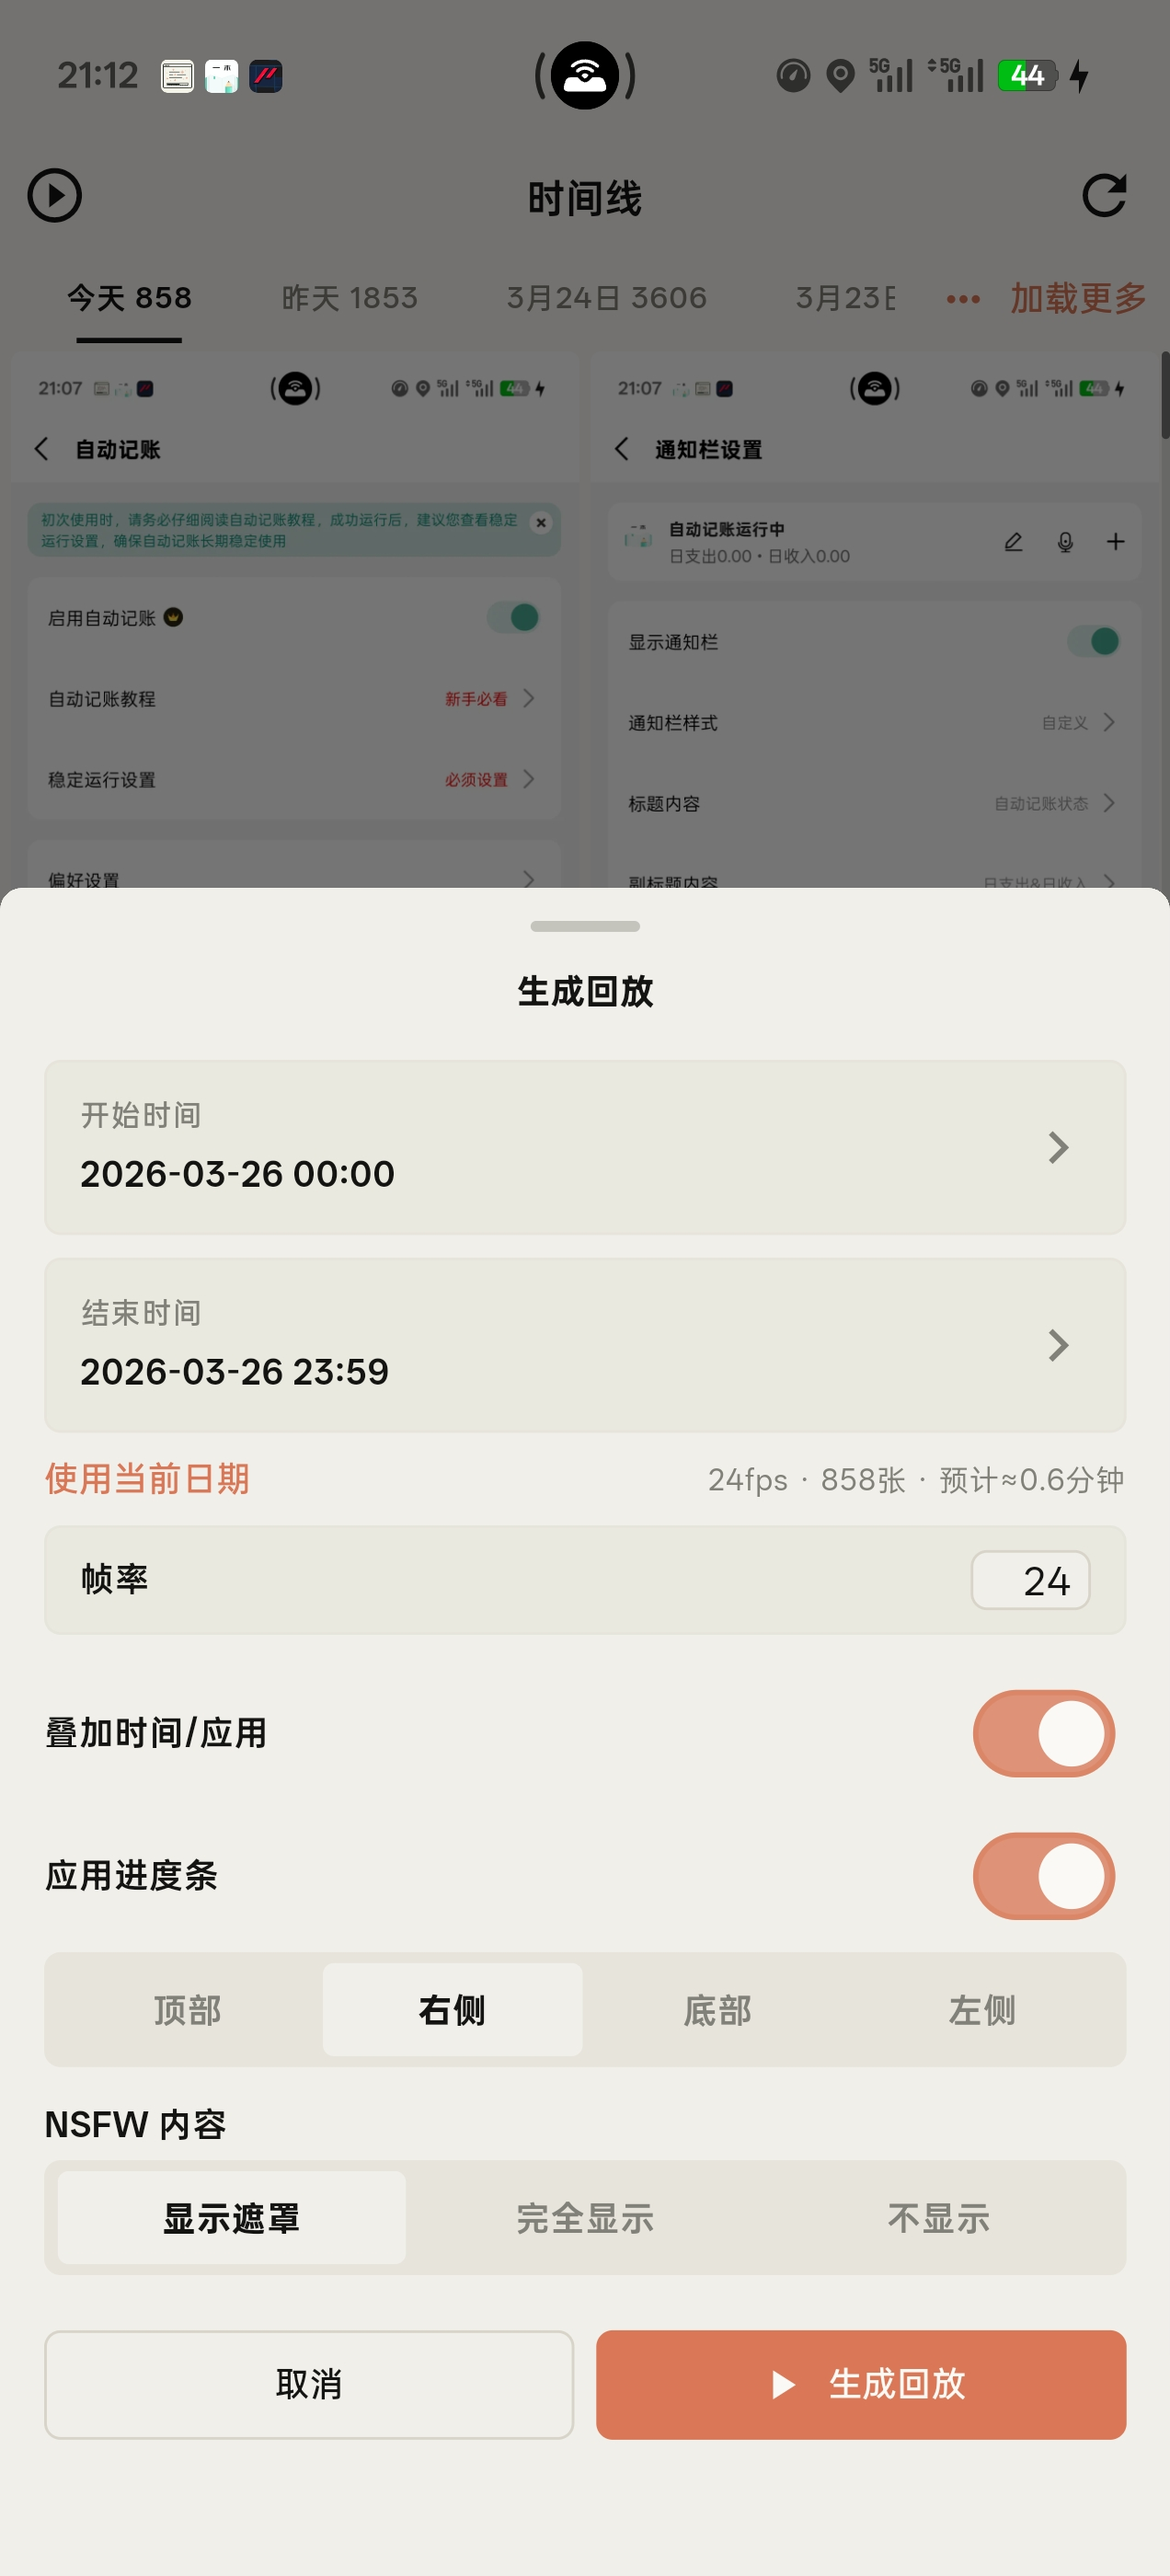
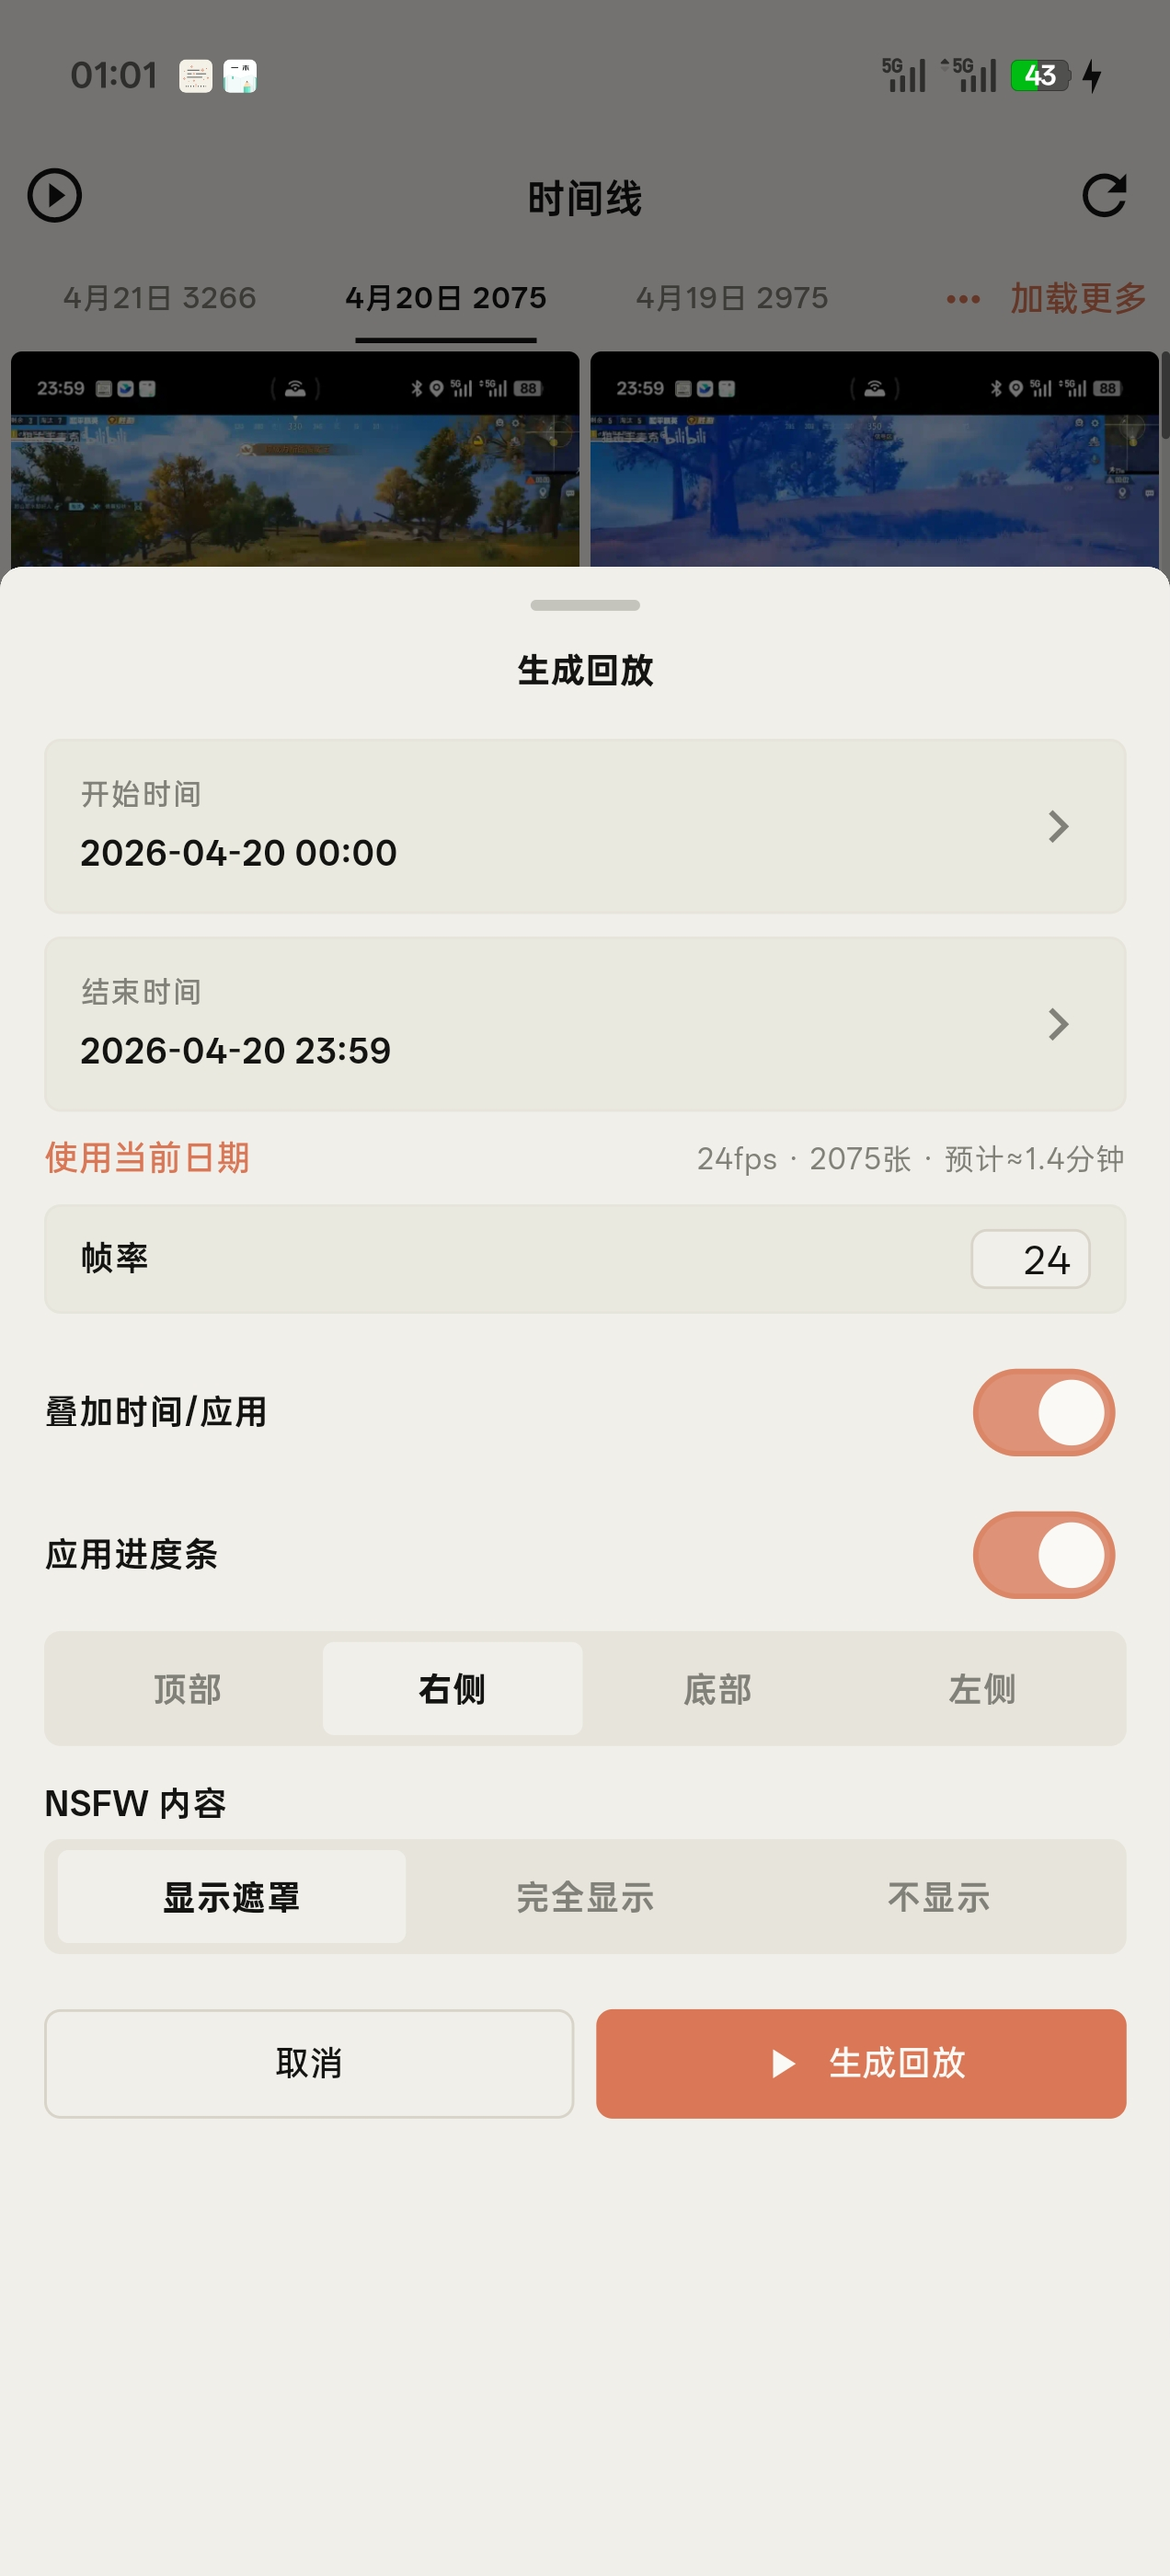
feat(storage): 支持清理回放视频内部副本
- 回放视频保存到系统相册成功后删除应用内部临时副本

- 存储分析识别 output/replay 并提供确认清理入口

- 补充回放视频清理多语言文案、README 说明和展示截图

diff --git a/lib/features/storage_analysis/presentation/pages/storage_analysis_page.dart b/lib/features/storage_analysis/presentation/pages/storage_analysis_page.dart
@@ -14,6 +14,7 @@ import 'package:screen_memo/features/storage_analysis/data/storage_analysis_serv
 import 'package:screen_memo/core/theme/app_theme.dart';
 import 'package:screen_memo/core/utils/byte_formatter.dart';
 import 'package:screen_memo/core/widgets/ui_components.dart';
+import 'package:screen_memo/core/widgets/ui_dialog.dart';
 
 class StorageAnalysisPage extends StatefulWidget {
   const StorageAnalysisPage({super.key});
@@ -29,6 +30,7 @@ class _StorageAnalysisPageState extends State<StorageAnalysisPage> {
   bool _detailsExpanded = false;
   bool _clearingCache = false;
   bool _clearingExternalLogs = false;
+  bool _clearingReplayOutput = false;
 
   @override
   void initState() {
@@ -463,6 +465,7 @@ class _StorageAnalysisPageState extends State<StorageAnalysisPage> {
     final cacheNode = findNode((n) => n.id == 'cache');
     final screenshotsNode = findNode((n) => n.id == 'screenshots');
     final outputDatabasesNode = findNode((n) => n.type == 'outputDatabases');
+    final replayOutputNode = findNode((n) => n.type == 'replayOutput');
     final databasesNode = findNode((n) => n.type == 'databases');
     final externalLogsNode = findNode((n) => n.type == 'externalLogs');
 
@@ -506,6 +509,21 @@ class _StorageAnalysisPageState extends State<StorageAnalysisPage> {
           onAction: outputDatabasesNode.path == null
               ? null
               : () => _copyPath(context, l10n, outputDatabasesNode.path!),
+        ),
+      if (replayOutputNode != null || _clearingReplayOutput)
+        _StorageCategoryCard(
+          title: l10n.storageAnalysisLabelReplayOutput,
+          bytes: replayOutputNode?.bytes ?? 0,
+          detailText: _buildNodeDetailText(l10n, replayOutputNode),
+          descriptionText: desc(
+            zh: '清理已生成的回放视频内部副本，不会删除系统相册中的视频，也不会影响原始截图。',
+            en: 'Clear internal replay video copies. Gallery videos and original screenshots are not deleted.',
+          ),
+          actionLabel: l10n.actionClear,
+          actionLoading: _clearingReplayOutput,
+          onAction: _clearingReplayOutput
+              ? null
+              : () => _confirmClearReplayOutput(l10n, replayOutputNode),
         ),
       if (databasesNode != null)
         _StorageCategoryCard(
@@ -603,6 +621,8 @@ class _StorageAnalysisPageState extends State<StorageAnalysisPage> {
                     node: node,
                     totalBytes: totalBytes,
                     depth: 0,
+                    onClearReplayOutput: _confirmClearReplayOutput,
+                    replayOutputClearing: _clearingReplayOutput,
                   ),
                 ),
               ],
@@ -684,6 +704,61 @@ class _StorageAnalysisPageState extends State<StorageAnalysisPage> {
       if (mounted) {
         setState(() {
           _clearingExternalLogs = false;
+        });
+      }
+    }
+  }
+
+  Future<void> _confirmClearReplayOutput(
+    AppLocalizations l10n,
+    StorageAnalysisNode? node,
+  ) async {
+    if (_clearingReplayOutput) return;
+    final String message = l10n.storageAnalysisReplayClearConfirmMessage(
+      formatBytes(node?.bytes ?? 0),
+      NumberFormat.decimalPattern().format(node?.fileCount ?? 0),
+    );
+    final bool? confirmed = await showUIDialog<bool>(
+      context: context,
+      title: l10n.storageAnalysisReplayClearConfirmTitle,
+      message: message,
+      actions: [
+        UIDialogAction<bool>(text: l10n.dialogCancel, result: false),
+        UIDialogAction<bool>(
+          text: l10n.actionClear,
+          result: true,
+          style: UIDialogActionStyle.destructive,
+        ),
+      ],
+    );
+    if (confirmed != true || !mounted) return;
+    await _clearReplayOutput(l10n);
+  }
+
+  Future<void> _clearReplayOutput(AppLocalizations l10n) async {
+    if (_clearingReplayOutput) return;
+    setState(() {
+      _clearingReplayOutput = true;
+    });
+
+    try {
+      final Directory? replayDir = await PathService.getInternalAppDir(
+        'output/replay',
+      );
+      if (replayDir != null) {
+        await _deleteDirContents(replayDir);
+      }
+
+      if (!mounted) return;
+      UINotifier.success(context, l10n.clearSuccess);
+      await _loadData();
+    } catch (e) {
+      if (!mounted) return;
+      UINotifier.error(context, l10n.clearFailedWithError(e.toString()));
+    } finally {
+      if (mounted) {
+        setState(() {
+          _clearingReplayOutput = false;
         });
       }
     }
@@ -792,6 +867,8 @@ class _StorageAnalysisPageState extends State<StorageAnalysisPage> {
                             node: child,
                             totalBytes: max(node.bytes, 1),
                             depth: 0,
+                            onClearReplayOutput: _confirmClearReplayOutput,
+                            replayOutputClearing: _clearingReplayOutput,
                           ),
                         ),
                     ],
@@ -812,11 +889,16 @@ class StorageNodeTile extends StatefulWidget {
     required this.node,
     required this.totalBytes,
     required this.depth,
+    this.onClearReplayOutput,
+    this.replayOutputClearing = false,
   });
 
   final StorageAnalysisNode node;
   final int totalBytes;
   final int depth;
+  final void Function(AppLocalizations l10n, StorageAnalysisNode node)?
+  onClearReplayOutput;
+  final bool replayOutputClearing;
 
   @override
   State<StorageNodeTile> createState() => _StorageNodeTileState();
@@ -846,6 +928,10 @@ class _StorageNodeTileState extends State<StorageNodeTile> {
     final textTheme = theme.textTheme;
     final l10n = AppLocalizations.of(context);
     final hasChildren = widget.node.hasChildren;
+    final canClearReplayOutput =
+        widget.node.type == 'replayOutput' &&
+        widget.node.bytes > 0 &&
+        widget.onClearReplayOutput != null;
     final indent = 16.0 * widget.depth;
 
     final ratio = widget.totalBytes > 0
@@ -946,7 +1032,24 @@ class _StorageNodeTileState extends State<StorageNodeTile> {
                     ),
                   ],
                 ),
-                if (!hasChildren && widget.node.path != null)
+                if (canClearReplayOutput)
+                  IconButton(
+                    icon: widget.replayOutputClearing
+                        ? const SizedBox(
+                            width: 18,
+                            height: 18,
+                            child: CircularProgressIndicator(strokeWidth: 2),
+                          )
+                        : const Icon(
+                            Icons.cleaning_services_outlined,
+                            size: 18,
+                          ),
+                    tooltip: l10n.actionClear,
+                    onPressed: widget.replayOutputClearing
+                        ? null
+                        : () => widget.onClearReplayOutput!(l10n, widget.node),
+                  )
+                else if (!hasChildren && widget.node.path != null)
                   IconButton(
                     icon: const Icon(Icons.copy_rounded, size: 18),
                     tooltip: l10n.actionCopyPath,
@@ -966,6 +1069,8 @@ class _StorageNodeTileState extends State<StorageNodeTile> {
                       node: child,
                       totalBytes: widget.totalBytes,
                       depth: widget.depth + 1,
+                      onClearReplayOutput: widget.onClearReplayOutput,
+                      replayOutputClearing: widget.replayOutputClearing,
                     ),
                   )
                   .toList(),
@@ -1172,6 +1277,8 @@ String _resolveStorageNodeLabel(
       return appName ?? packageName ?? node.label;
     case 'outputDatabases':
       return l10n.storageAnalysisLabelOutputDatabases;
+    case 'replayOutput':
+      return l10n.storageAnalysisLabelReplayOutput;
     case 'filesChild':
       return node.label;
     case 'sharedPrefs':

diff --git a/lib/features/timeline/application/replay_export_service.dart b/lib/features/timeline/application/replay_export_service.dart
@@ -343,8 +343,14 @@ class ReplayExportService {
       } catch (_) {}
 
       if (options.saveToGallery) {
-        await _saveVideoToGallery(outPath, l10n: l10n);
-        if (options.openGalleryAfterSave) {
+        final bool savedToGallery = await _saveVideoToGallery(
+          outPath,
+          l10n: l10n,
+        );
+        if (savedToGallery) {
+          await _deleteReplayOutputCopy(outPath);
+        }
+        if (savedToGallery && options.openGalleryAfterSave) {
           try {
             await Gal.open();
           } catch (_) {}
@@ -371,7 +377,7 @@ class ReplayExportService {
           duration: const Duration(seconds: 6),
           actionLabel: saveLabel,
           onAction: () {
-            unawaited(_saveVideoToGallery(outPath, l10n: l10n));
+            unawaited(_saveVideoToGalleryAndDeleteCopy(outPath, l10n: l10n));
           },
         );
       }
@@ -496,7 +502,7 @@ class ReplayExportService {
     return filePath;
   }
 
-  Future<void> _saveVideoToGallery(
+  Future<bool> _saveVideoToGallery(
     String path, {
     required AppLocalizations? l10n,
   }) async {
@@ -518,7 +524,7 @@ class ReplayExportService {
                   'Request gallery permission failed',
             );
           }
-          return;
+          return false;
         }
       }
       await Gal.putVideo(path);
@@ -528,6 +534,7 @@ class ReplayExportService {
           l10n?.saveImageSuccess ?? 'Saved to gallery',
         );
       }
+      return true;
     } on GalException catch (_) {
       if (overlay != null && overlay.mounted) {
         UINotifier.errorOnOverlay(
@@ -535,6 +542,7 @@ class ReplayExportService {
           l10n?.saveImageFailed ?? 'Save failed',
         );
       }
+      return false;
     } catch (_) {
       if (overlay != null && overlay.mounted) {
         UINotifier.errorOnOverlay(
@@ -542,6 +550,30 @@ class ReplayExportService {
           l10n?.saveImageFailed ?? 'Save failed',
         );
       }
+      return false;
+    }
+  }
+
+  Future<void> _saveVideoToGalleryAndDeleteCopy(
+    String path, {
+    required AppLocalizations? l10n,
+  }) async {
+    final bool savedToGallery = await _saveVideoToGallery(path, l10n: l10n);
+    if (savedToGallery) {
+      await _deleteReplayOutputCopy(path);
+    }
+  }
+
+  Future<void> _deleteReplayOutputCopy(String path) async {
+    try {
+      final File file = File(path);
+      if (await file.exists()) {
+        await file.delete();
+      }
+    } catch (e) {
+      try {
+        await FlutterLogger.nativeError('Replay', '删除回放内部副本失败: $e');
+      } catch (_) {}
     }
   }
 }

diff --git a/lib/l10n/app_localizations.dart b/lib/l10n/app_localizations.dart
@@ -1440,6 +1440,24 @@ abstract class AppLocalizations {
   /// **'output/databases'**
   String get storageAnalysisLabelOutputDatabases;
 
+  /// No description provided for @storageAnalysisLabelReplayOutput.
+  ///
+  /// In en, this message translates to:
+  /// **'Replay videos'**
+  String get storageAnalysisLabelReplayOutput;
+
+  /// No description provided for @storageAnalysisReplayClearConfirmTitle.
+  ///
+  /// In en, this message translates to:
+  /// **'Clear replay videos'**
+  String get storageAnalysisReplayClearConfirmTitle;
+
+  /// No description provided for @storageAnalysisReplayClearConfirmMessage.
+  ///
+  /// In en, this message translates to:
+  /// **'This will clear internal replay video copies ({size}, {count} files). Videos already saved to the system gallery and original screenshots will not be deleted. Continue?'**
+  String storageAnalysisReplayClearConfirmMessage(Object size, Object count);
+
   /// No description provided for @storageAnalysisLabelSharedPrefs.
   ///
   /// In en, this message translates to:

diff --git a/lib/l10n/app_localizations_ja.dart b/lib/l10n/app_localizations_ja.dart
@@ -731,6 +731,17 @@ class AppLocalizationsJa extends AppLocalizations {
   String get storageAnalysisLabelOutputDatabases => 'output/databases';
 
   @override
+  String get storageAnalysisLabelReplayOutput => 'リプレイ動画';
+
+  @override
+  String get storageAnalysisReplayClearConfirmTitle => 'リプレイ動画を削除';
+
+  @override
+  String storageAnalysisReplayClearConfirmMessage(Object size, Object count) {
+    return 'アプリ内部のリプレイ動画コピー（$size、$count 件のファイル）を削除します。システムギャラリーに保存済みの動画と元のスクリーンショットは削除されません。続行しますか？';
+  }
+
+  @override
   String get storageAnalysisLabelSharedPrefs => 'shared_prefs';
 
   @override

diff --git a/lib/l10n/app_localizations_ko.dart b/lib/l10n/app_localizations_ko.dart
@@ -731,6 +731,17 @@ class AppLocalizationsKo extends AppLocalizations {
   String get storageAnalysisLabelOutputDatabases => 'output/databases';
 
   @override
+  String get storageAnalysisLabelReplayOutput => '리플레이 동영상';
+
+  @override
+  String get storageAnalysisReplayClearConfirmTitle => '리플레이 동영상 정리';
+
+  @override
+  String storageAnalysisReplayClearConfirmMessage(Object size, Object count) {
+    return '앱 내부의 리플레이 동영상 복사본($size, 파일 $count개)을 정리합니다. 시스템 갤러리에 저장된 동영상과 원본 스크린샷은 삭제되지 않습니다. 계속할까요?';
+  }
+
+  @override
   String get storageAnalysisLabelSharedPrefs => 'shared_prefs';
 
   @override

diff --git a/lib/l10n/app_localizations_zh.dart b/lib/l10n/app_localizations_zh.dart
@@ -717,6 +717,17 @@ class AppLocalizationsZh extends AppLocalizations {
   String get storageAnalysisLabelOutputDatabases => 'output/databases';
 
   @override
+  String get storageAnalysisLabelReplayOutput => '回放视频';
+
+  @override
+  String get storageAnalysisReplayClearConfirmTitle => '清理回放视频';
+
+  @override
+  String storageAnalysisReplayClearConfirmMessage(Object size, Object count) {
+    return '将清理应用内部的回放视频副本（$size，$count 个文件）。系统相册中已保存的视频不会被删除，原始截图也不会受影响。是否继续？';
+  }
+
+  @override
   String get storageAnalysisLabelSharedPrefs => 'shared_prefs';
 
   @override

diff --git a/lib/l10n/app_localizations_en.dart b/lib/l10n/app_localizations_en.dart
@@ -750,6 +750,17 @@ class AppLocalizationsEn extends AppLocalizations {
   String get storageAnalysisLabelOutputDatabases => 'output/databases';
 
   @override
+  String get storageAnalysisLabelReplayOutput => 'Replay videos';
+
+  @override
+  String get storageAnalysisReplayClearConfirmTitle => 'Clear replay videos';
+
+  @override
+  String storageAnalysisReplayClearConfirmMessage(Object size, Object count) {
+    return 'This will clear internal replay video copies ($size, $count files). Videos already saved to the system gallery and original screenshots will not be deleted. Continue?';
+  }
+
+  @override
   String get storageAnalysisLabelSharedPrefs => 'shared_prefs';
 
   @override

diff --git a/android/app/src/main/kotlin/com/fqyw/screen_memo/storage/StorageAnalyzer.kt b/android/app/src/main/kotlin/com/fqyw/screen_memo/storage/StorageAnalyzer.kt
@@ -239,6 +239,12 @@ object StorageAnalyzer {
                     label = "databases",
                     type = "outputDatabases",
                 )
+                child.isDirectory && child.name == "replay" -> analyzeDir(
+                    dir = child,
+                    id = "output::replay",
+                    label = "replay",
+                    type = "replayOutput",
+                )
                 child.isDirectory -> analyzeDir(
                     dir = child,
                     id = "output::${child.name}",
